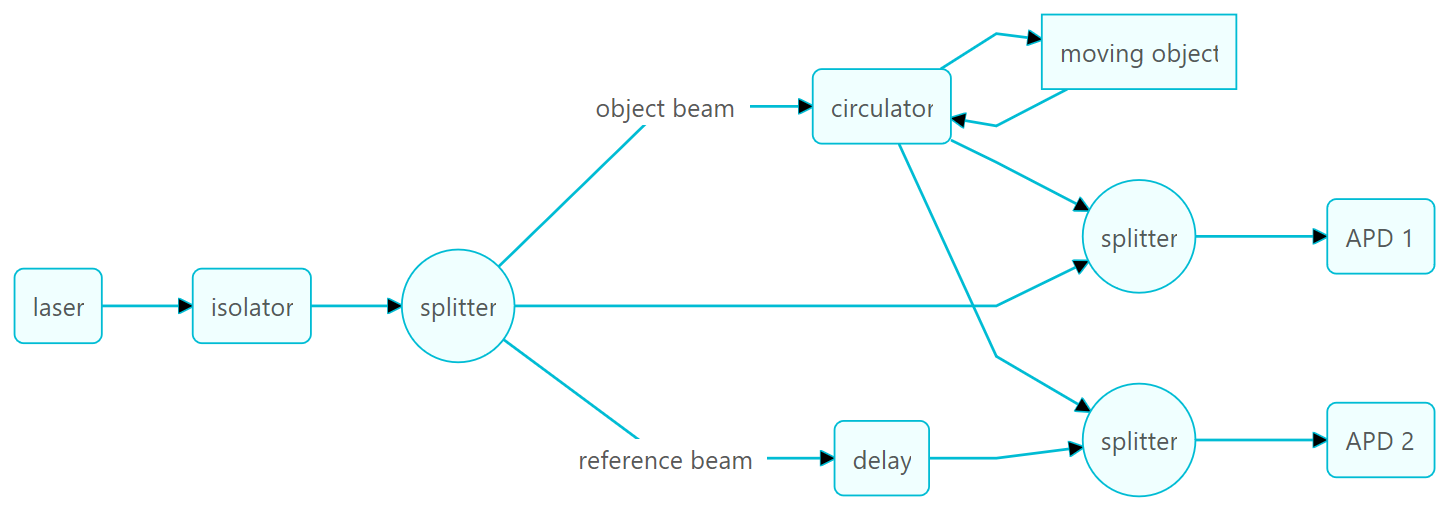
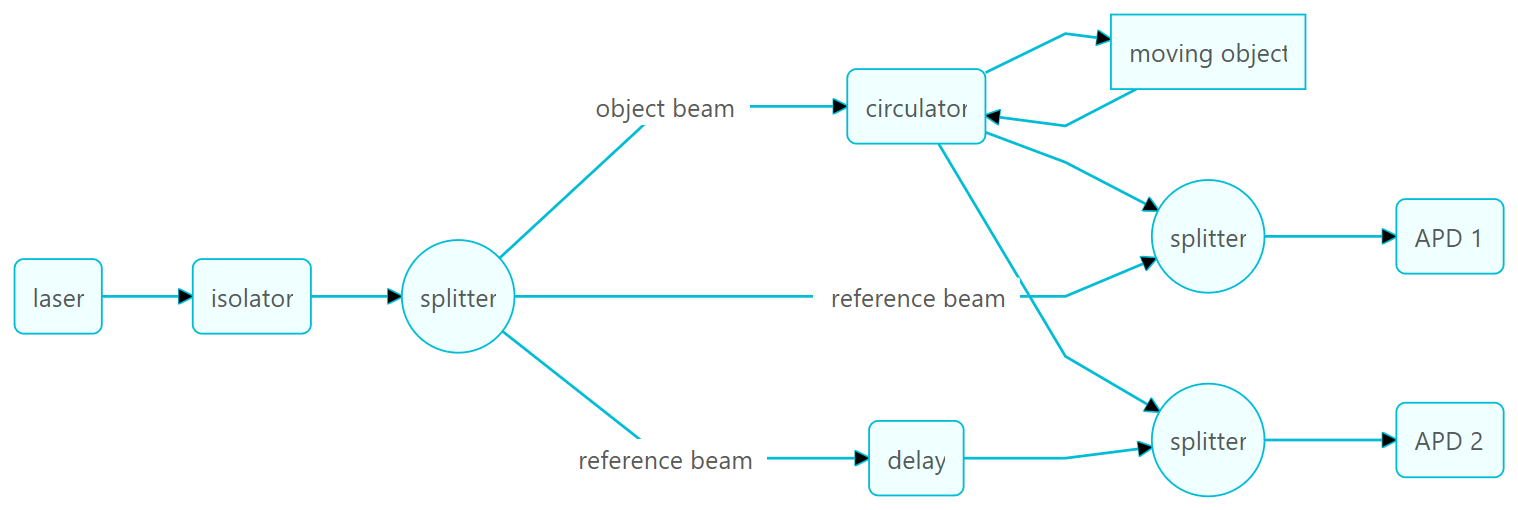
Update diagram.

diff --git a/doc/flow_diagram.md b/doc/flow_diagram.md
@@ -43,7 +43,7 @@ graph LR
     object --> circulator
 
     circulator --> splitterY1
-    splitterY --> splitterY1
+    splitterY --> |reference beam| splitterY1
     splitterY1 --> APD1
 
     circulator --> splitterY2
